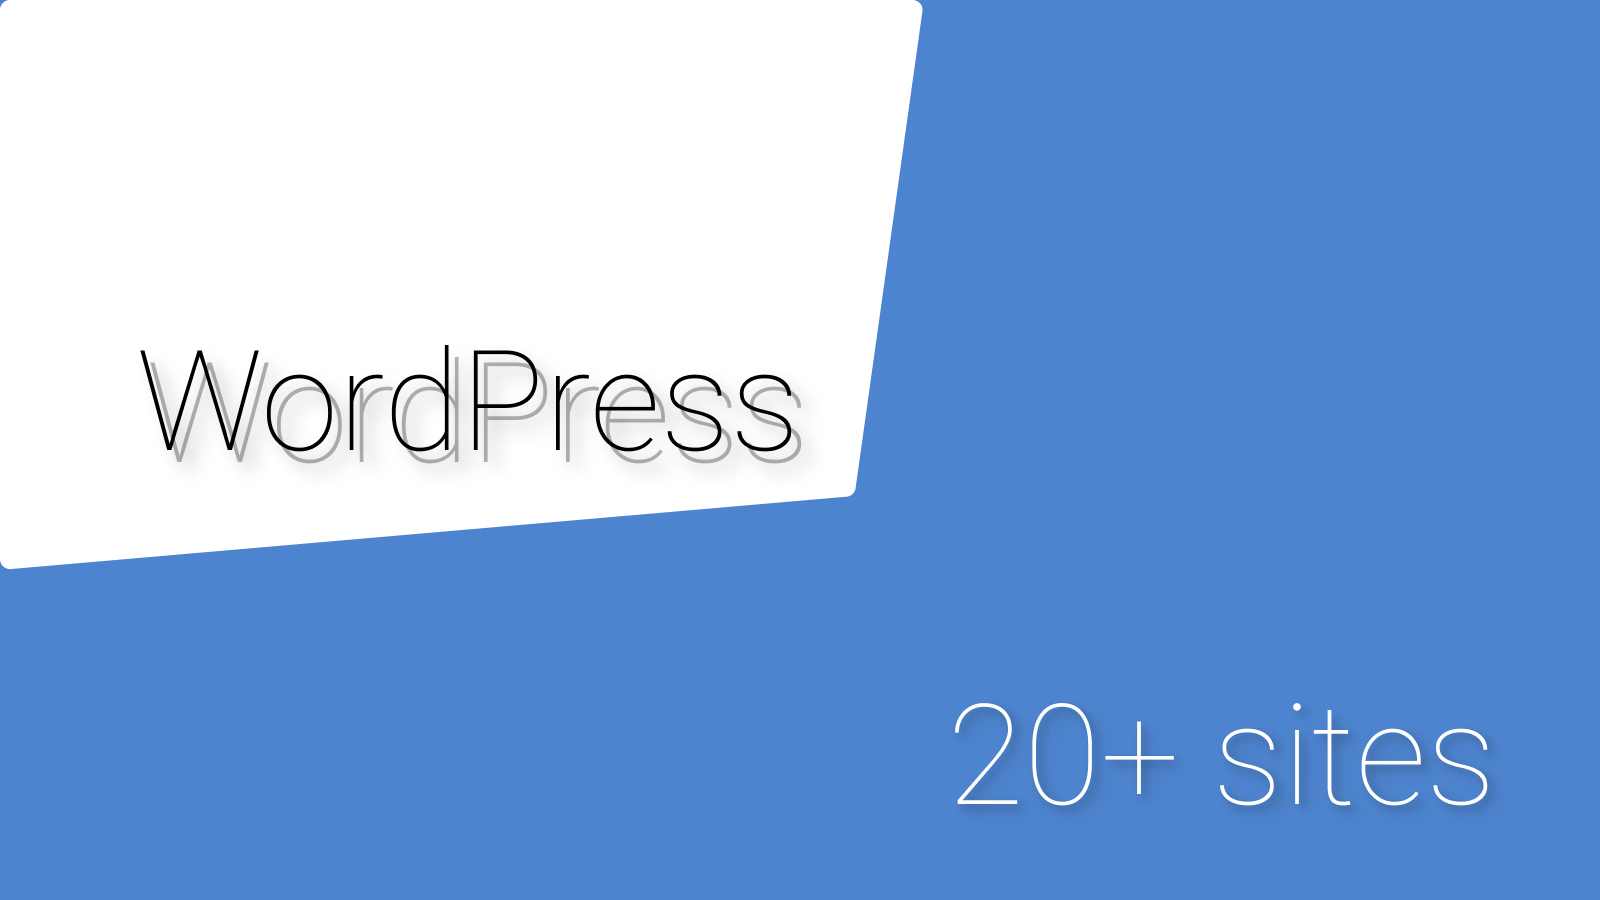
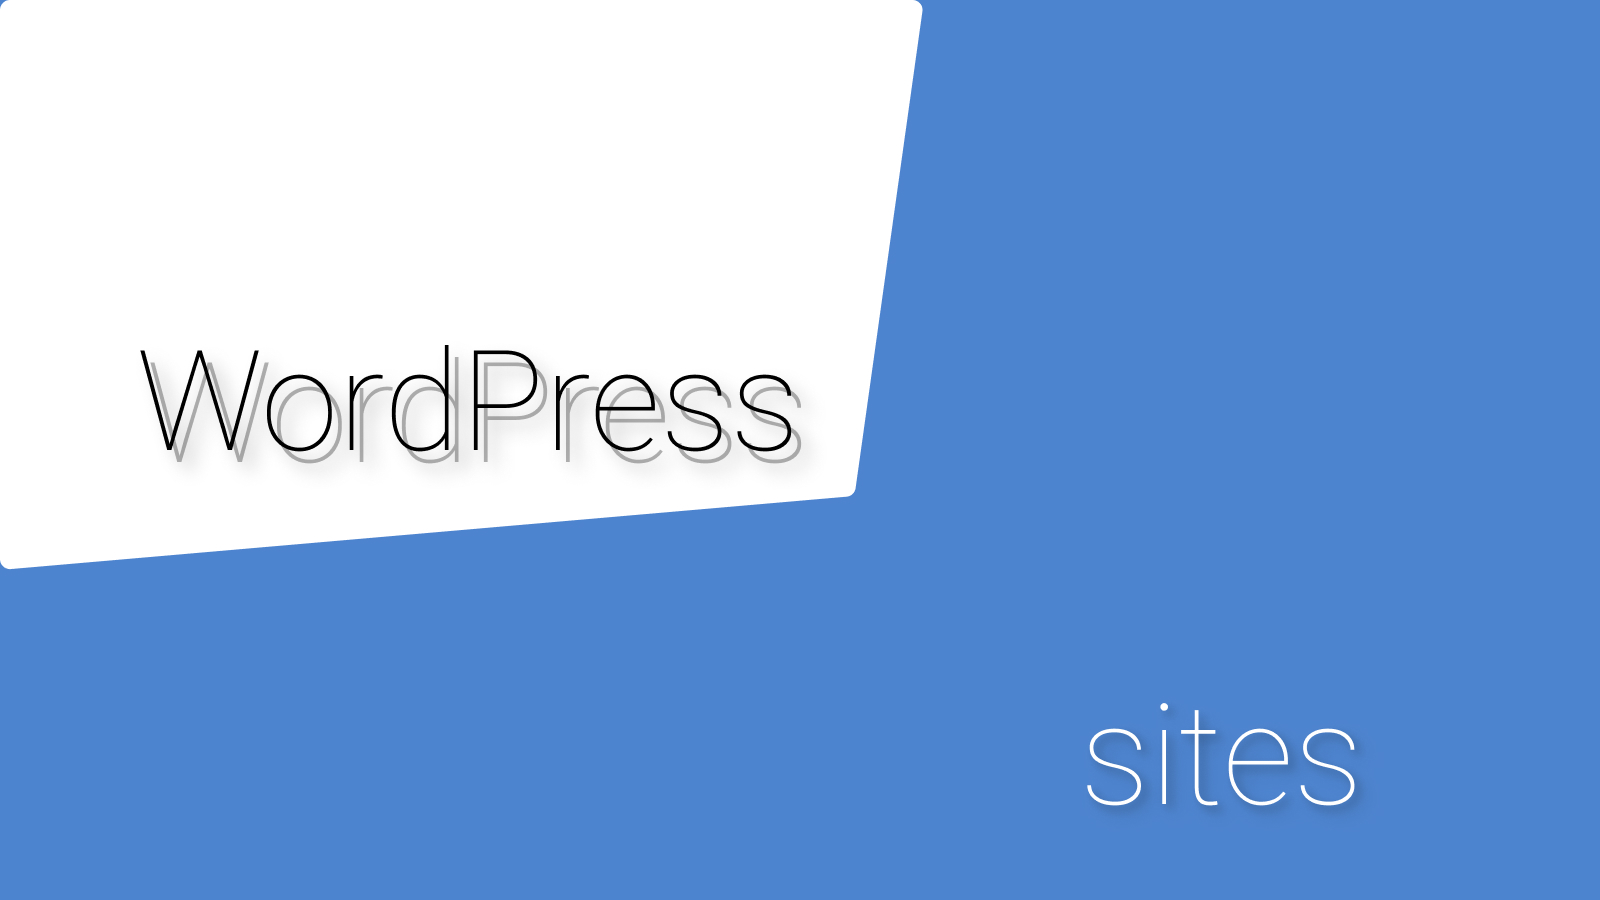
feat: add trimay, wordpress

Changed region(s): [[0.5938, 0.7778, 0.9375, 0.9022]]

diff --git a/index.html b/index.html
@@ -79,7 +79,7 @@
                 Sviatoslav <span class="c--green">Pidhurskyi</span>
               </h2>
               <p class="fz-14 c--grey-pre">
-                Node.js Developer with 5+ years of experience designing and
+                Node.js Developer with 6+ years of experience designing and
                 building scalable backend systems for FinTech, Healthcare, AI,
                 Education, E-commerce and SaaS products.
               </p>
@@ -691,18 +691,37 @@
               </div>
             </a>
           </div> -->
-          <!-- <div class="col-12 col-md-6">
+          <div class="ccol-12 col-md-4">
             <a class="portfolio" href="#modal-wordpress">
               <div
                 class="portfolio--wrap"
                 style="background-image: url(./img/portfolio/wordpress.jpg)"
               >
                 <div class="d-flex align-items-center justify-content-between">
-                  <div class="portfolio__name title">WordPress</div>
+                  <div class="portfolio__name title">E-commerce</div>
+                  <div class="portfolio__star">
+                    <i class="ic ic-star-fill"></i>
+                  </div>
                 </div>
               </div>
             </a>
-          </div> -->
+          </div>
+
+          <div class="col-12 col-md-4">
+            <a class="portfolio" href="#modal-trimay">
+              <div
+                class="portfolio--wrap"
+                style="background-image: url(./img/portfolio/trimay/trimay.jpg)"
+              >
+                <div class="d-flex align-items-center justify-content-between">
+                  <div class="portfolio__name title">Cashback tracker</div>
+                  <div class="portfolio__star">
+                    <i class="ic ic-star-fill"></i>
+                  </div>
+                </div>
+              </div>
+            </a>
+          </div>
         </div>
       </div>
     </section>
@@ -845,6 +864,70 @@
           </div>
           <div class="col-auto">
             <div class="fz-14 c--grey">© 2019 All rights reserved.</div>
+          </div>
+        </div>
+      </div>
+    </section>
+
+    <section class="section section--modal modal" id="modal-trimay">
+      <div class="heading">
+        <div class="container">
+          <div class="row align-items-center justify-content-between">
+            <div class="col heading__left">
+              <h4 class="title title--big modal__title">Trimay</h4>
+              <span>2026</span>
+            </div>
+            <div class="col-auto heading__right">
+              <i class="ic ic-cancel ic--flat close"></i>
+            </div>
+          </div>
+        </div>
+      </div>
+      <div class="container mt-20">
+        <div class="row">
+          <div class="col-lg-8">
+            <div class="modal__content">
+              <h3>Vibecoing Mobile App for track cashback from banks</h3>
+              <hr />
+              <h5>Support: IOS, MacOS, widget</h5>
+
+              <div class="row">
+                <div class="col-lg-6">
+                  <img src="./img/portfolio/trimay/widget.png" alt="" />
+                </div>
+              </div>
+              <hr />
+
+              <div class="row">
+                <div class="col-lg-6">
+                  <img src="./img/portfolio/trimay/home.png" alt="" />
+                </div>
+              </div>
+            </div>
+          </div>
+          <div class="col-lg-4">
+            <div class="modal__sidebar">
+              <p class="fz-18 modal__sub">Description</p>
+
+              <div class="ic_text">
+                <i class="ic ic-github"></i>
+                <a
+                  href="https://github.com/broodd/trimay-frontend"
+                  target="_blank"
+                  >Source code</a
+                >
+              </div>
+
+              <hr />
+
+              <p class="fz-18 modal__sub">Technology</p>
+
+              <div class="chips">
+                <span class="chip">Codex</span>
+                <span class="chip">ChatGPT</span>
+                <span class="chip">Swift</span>
+              </div>
+            </div>
           </div>
         </div>
       </div>
@@ -1484,6 +1567,69 @@
                 <span class="chip">NativeScript</span>
                 <span class="chip">SASS</span>
               </div>
+            </div>
+          </div>
+        </div>
+      </div>
+    </section>
+
+    <section class="section section--modal modal" id="modal-wordpress">
+      <div class="heading">
+        <div class="container">
+          <div class="row align-items-center justify-content-between">
+            <div class="col heading__left">
+              <h4 class="title title--big modal__title">
+                A portfolio of successful web projects I delivered
+              </h4>
+            </div>
+            <div class="col-auto heading__right">
+              <i class="ic ic-cancel ic--flat close"></i>
+            </div>
+          </div>
+        </div>
+      </div>
+      <div class="container mt-20">
+        <div class="row">
+          <div class="col-md-6">
+            <div class="modal__content">
+              <h5>
+                <div class="ic_text">
+                  <i class="ic ic-link"></i>
+                  <a href="https://dymno.if.ua/">Dymno Meat&Fire</a>
+                </div>
+                Website of meat delivery with character in Ivano Frankivsk.
+              </h5>
+
+              <hr />
+              <img src="./img/portfolio/wordpress/dymno.png" alt="" />
+            </div>
+          </div>
+          <div class="col-md-6">
+            <div class="modal__content">
+              <h5>
+                <div class="ic_text">
+                  <i class="ic ic-link"></i>
+                  <a href="https://mn.if.ua/home/">In Maryany & Nazara</a>
+                </div>
+                Website of coze hotel in Yaremche.
+              </h5>
+
+              <hr />
+              <img src="./img/portfolio/wordpress/mn.png" alt="" />
+            </div>
+          </div>
+          <div class="col-md-6">
+            <div class="modal__content">
+              <h5>
+                <div class="ic_text">
+                  <i class="ic ic-link"></i>
+                  <a href="https://ecoproduct.if.ua/en/">Eco-Product</a>
+                </div>
+                Website of tasty ukrainian tea.
+              </h5>
+
+              <hr />
+              <img src="./img/portfolio/wordpress/eco.png" alt="" />
             </div>
           </div>
         </div>